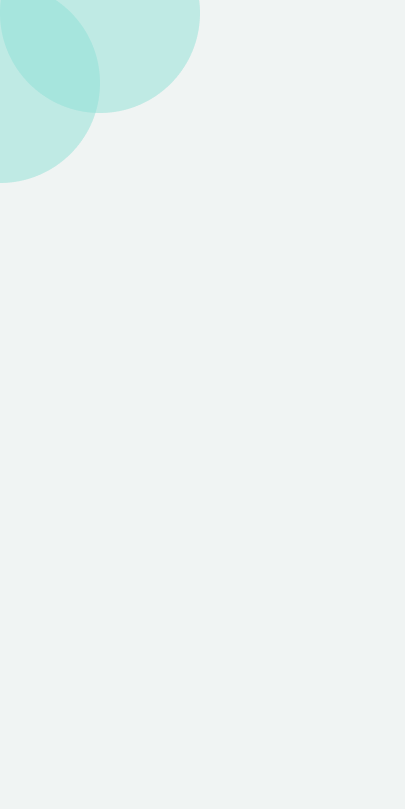
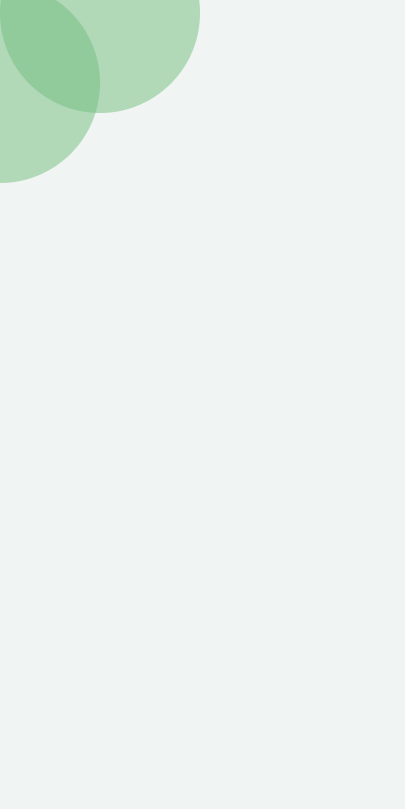
Finished Genre Screen

Changed region(s): [[0.0, 0.0, 0.5037, 0.2472]]

diff --git a/Melofy/lib/presentation/create_account_select_interest_screen/create_account_select_interest_screen.dart b/Melofy/lib/presentation/create_account_select_interest_screen/create_account_select_interest_screen.dart
@@ -58,8 +58,7 @@ class _CreateAccountSelectInterestScreenState
                       child: IconButton(
                         onPressed: () => showLogoutDialog(context),
                         icon: Icon(Icons.logout,
-                            color: Color.fromARGB(255, 80, 194, 201),
-                            size: 27.adaptSize),
+                            color: AppColor.primaryColor, size: 27.adaptSize),
                       ),
                     )
                   ],
@@ -78,8 +77,6 @@ class _CreateAccountSelectInterestScreenState
                           checkedMap[genre.genreName] =
                               snapshot.data!.contains(genre.genreName);
                         }
-                        print(checkedMap);
-                        print(snapshot.data);
                         return SingleChildScrollView(
                           child: Column(
                             mainAxisAlignment: MainAxisAlignment.start,
@@ -221,7 +218,7 @@ class _CreateAccountSelectInterestScreenState
               return Size(MediaQuery.sizeOf(context).width * .7,
                   MediaQuery.sizeOf(context).height * .08);
             }), backgroundColor: WidgetStateColor.resolveWith((Set) {
-              return Color.fromARGB(255, 80, 194, 201);
+              return AppColor.primaryColor;
             })),
             onPressed: () async {
               int count = 0;
@@ -233,7 +230,7 @@ class _CreateAccountSelectInterestScreenState
                 }
               });
 
-              if (count >= 1 && count <= 5) {
+              if (count >= 1) {
                 PrefData.setGenreList(finalList);
                 bool isLogin = await PrefData.getLogin();
 
@@ -247,7 +244,7 @@ class _CreateAccountSelectInterestScreenState
                     context: context,
                     builder: (context) {
                       return CupertinoAlertDialog(
-                        title: Text("Select 1-5 (inclusive) items."),
+                        title: Text("Select at least 1 genre."),
                         actions: [
                           CupertinoDialogAction(
                             child: Text("Ok"),
@@ -315,7 +312,7 @@ class _CreateAccountSelectInterestScreenState
 
   Widget buildGenreImage(BuildContext context, String path) {
     return Container(
-        width: 90.h,
+        width: 80.h,
         decoration: BoxDecoration(
             shape: BoxShape.circle,
             border: Border.all(
@@ -328,7 +325,7 @@ class _CreateAccountSelectInterestScreenState
     return Stack(
       children: [
         Container(
-            width: 90.h,
+            width: 80.h,
             decoration: BoxDecoration(
                 shape: BoxShape.circle,
                 border: Border.all(
@@ -336,22 +333,20 @@ class _CreateAccountSelectInterestScreenState
             child: CustomImageView(
                 imagePath: 'assets/images/genre_$path.png', fit: BoxFit.cover)),
         Opacity(
-          opacity: 0.6,
-          child: AnimatedContainer(
-              duration: Duration(milliseconds: 5000),
-              width: 90.h,
+          opacity: 0.9,
+          child: Container(
+              width: 80.h,
               decoration: BoxDecoration(
                   shape: BoxShape.circle,
                   border: Border.all(
                       width: 0.5, strokeAlign: BorderSide.strokeAlignOutside)),
               child: CustomImageView(
-                  radius: BorderRadius.all(Radius.circular(45.h)),
+                  radius: BorderRadius.all(Radius.circular(40.h)),
                   imagePath: 'assets/images/app_icon.png',
                   fit: BoxFit.cover)),
         ),
-        AnimatedContainer(
-            duration: Duration(milliseconds: 5000),
-            width: 90.h,
+        Container(
+            width: 80.h,
             decoration: BoxDecoration(
                 shape: BoxShape.circle,
                 border: Border.all(

diff --git a/Melofy/lib/presentation/messages_page/messages_page.dart b/Melofy/lib/presentation/messages_page/messages_page.dart
@@ -32,8 +32,6 @@ class _MessagesPageState extends State<MessagesPage> {
             future: futureList,
             builder: (context, snapshot) {
               if (snapshot.hasError) {
-                print("THERE IS AN ERRROROROORORORORORO!!!");
-                print(snapshot.error);
                 return Center(
                   child: Text(""),
                 );
